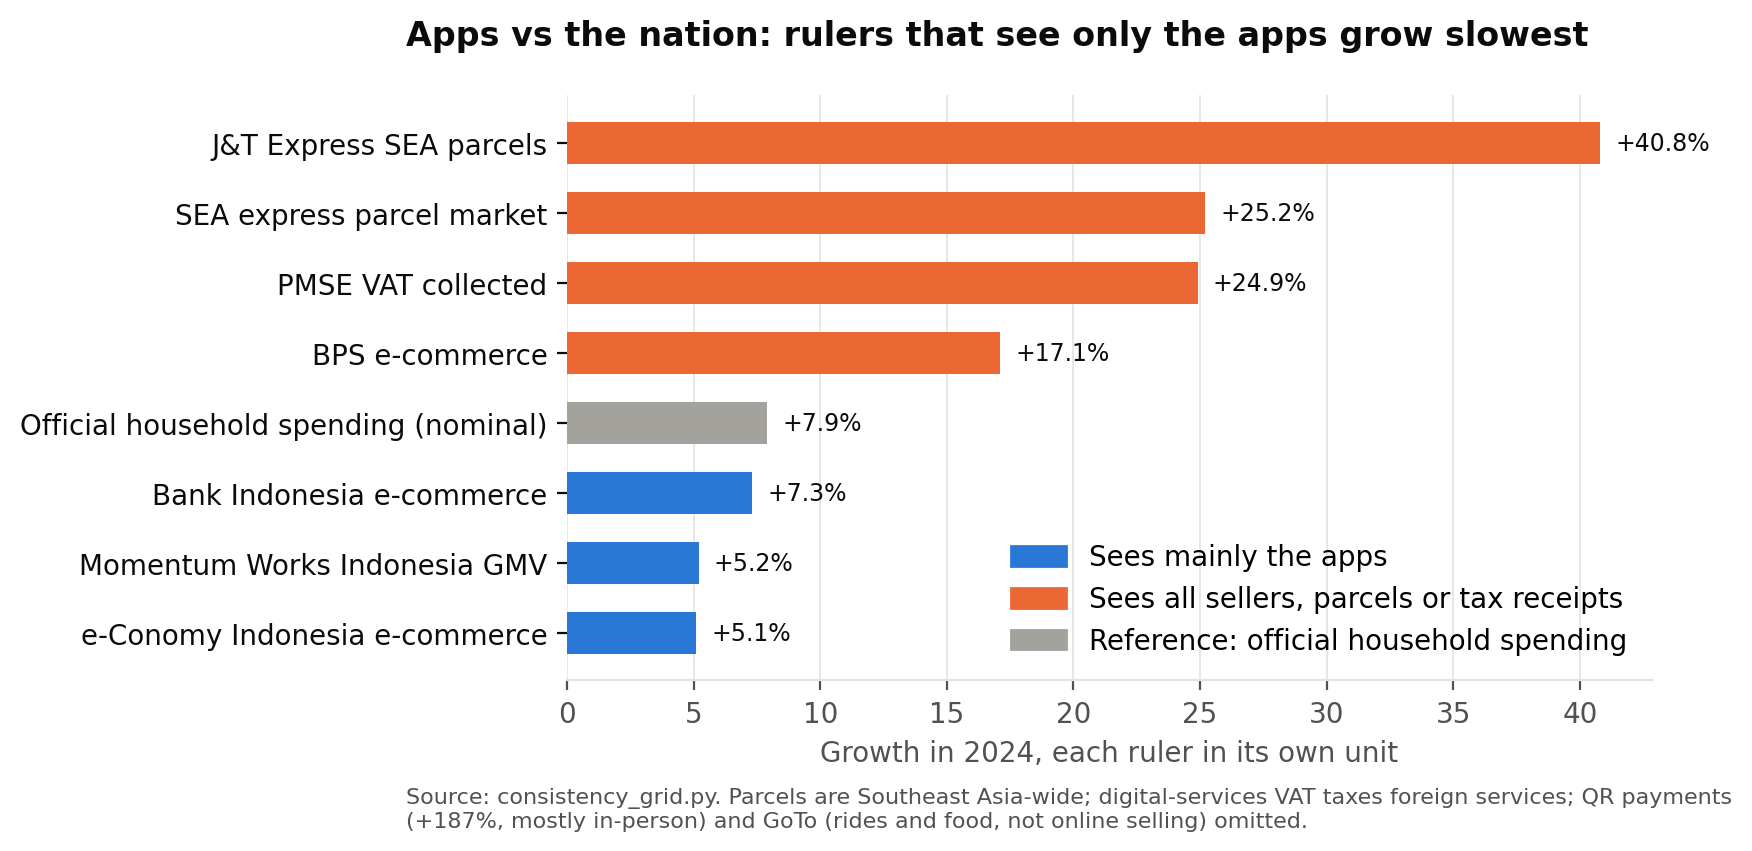
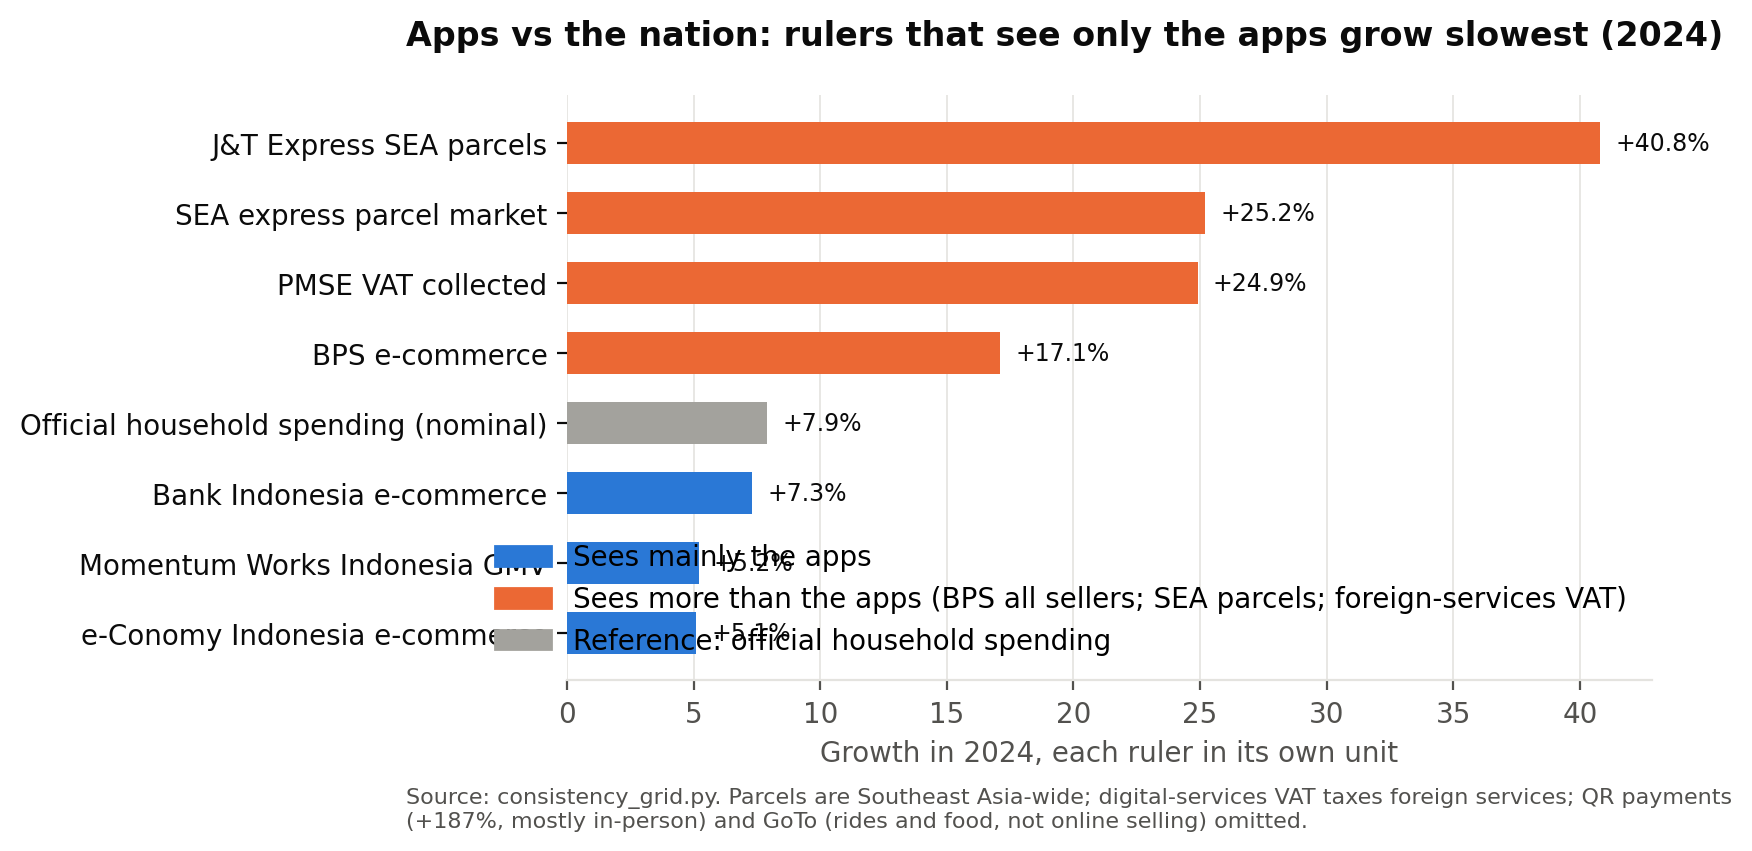
Exhibit 2: label the fast group by what it actually covers

Changed region(s): [[0.2774, 0.6416, 0.9247, 0.7638], [0.8938, 0.0, 0.9863, 0.0611]]

diff --git a/research/option_space_2026-10-01/exhibits.py b/research/option_space_2026-10-01/exhibits.py
@@ -48,9 +48,9 @@ ax.set_yticks(range(len(g)), g.index)
 for i, v in enumerate(g.values): ax.text(v + 0.6, i, f"{v:+.1f}%", va="center", fontsize=8.5, color=INK)
 ax.set_xlabel("Growth in 2024, each ruler in its own unit")
 ax.legend(handles=[plt.Rectangle((0, 0), 1, 1, color=BLUE), plt.Rectangle((0, 0), 1, 1, color=ORANGE), plt.Rectangle((0, 0), 1, 1, color=GREY)],
-          labels=["Sees mainly the apps", "Sees all sellers, parcels or tax receipts", "Reference: official household spending"],
+          labels=["Sees mainly the apps", "Sees more than the apps (BPS all sellers; SEA parcels; foreign-services VAT)", "Reference: official household spending"],
           frameon=False, loc="lower right")
-finish(fig, ax, "Apps vs the nation: rulers that see only the apps grow slowest",
+finish(fig, ax, "Apps vs the nation: rulers that see only the apps grow slowest (2024)",
        "Source: consistency_grid.py. Parcels are Southeast Asia-wide; digital-services VAT taxes foreign services; QR payments (+187%, mostly in-person) and GoTo (rides and food, not online selling) omitted.", "2_two_camps.png")
 
 # 3. Outside the records: formal firms with neither a website nor online tax filing
